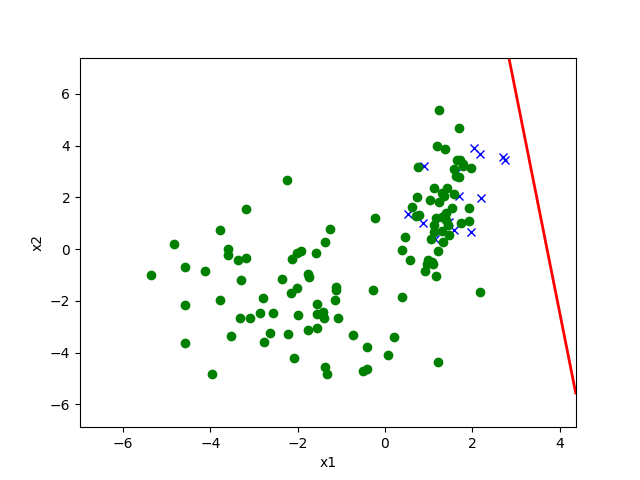
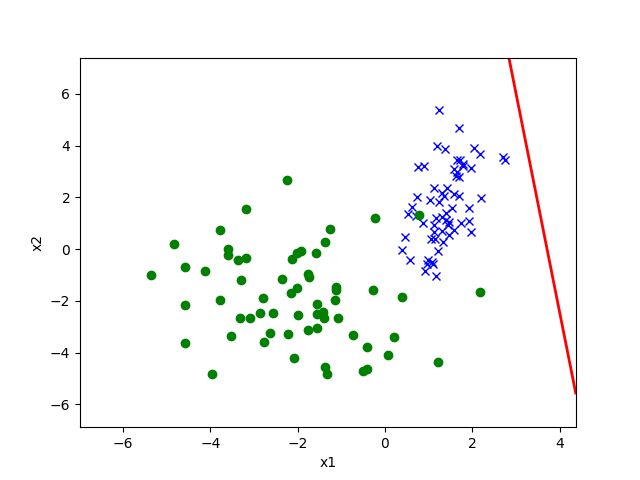
study: [GSMSEPLC-27] Taking Lecture CS229 : finish implementing "p02cde_posonly.py" ---   - finish implementing "e" in "p02cde_posonly.py".   - finish implementing "p02cde_posonly.py".   - add gitignore.

Changed region(s): [[0.625, 0.2188, 0.75, 0.5938], [0.625, 0.3438, 0.6562, 0.375]]

diff --git a/Lectures/cs229/2018/src/p02cde_posonly.py b/Lectures/cs229/2018/src/p02cde_posonly.py
@@ -26,24 +26,41 @@ def main(train_path, valid_path, test_path, pred_path):
     pred_path_e = pred_path.replace(WILDCARD, 'e')
 
     # *** START CODE HERE ***
-    model = LogisticRegression()
-
     # Part (c): Train and test on true labels
     # Make sure to save outputs to pred_path_c
+    model_t = LogisticRegression()
     x_train, t_train = util.load_dataset(train_path, label_col='t', add_intercept=True)
     x_test, t_test = util.load_dataset(test_path, label_col='t', add_intercept=True)
 
-    t_hat = model.fit(x_train, t_train)
-    util.plot(x_test, t_test, model.theta.squeeze(axis=0), '{}.png'.format(pred_path_c[:-4]))
+    model_t.fit(x_train, t_train)
+    t_hat = model_t.predict(x_train)
+
+    util.plot(x_test, t_test, model_t.theta.squeeze(axis=0), '{}.png'.format(pred_path_c[:-4]))
 
     # Part (d): Train on y-labels and test on true labels
     # Make sure to save outputs to pred_path_d
+    model_y = LogisticRegression()
     _, y_train = util.load_dataset(train_path, label_col='y', add_intercept=True)
-    _, y_test = util.load_dataset(test_path, label_col='y', add_intercept=True)
 
-    y_hat = model.fit(x_train, y_train)
-    util.plot(x_test, y_test, model.theta.squeeze(axis=0), '{}.png'.format(pred_path_d[:-4]))
+    model_y.fit(x_train, y_train)
+    y_hat = model_y.predict(x_train)
+
+    util.plot(x_test, t_test, model_y.theta.squeeze(axis=0), '{}.png'.format(pred_path_d[:-4]))
 
     # Part (e): Apply correction factor using validation set and test on true labels
     # Plot and use np.savetxt to save outputs to pred_path_e
+    x_val, t_val = util.load_dataset(valid_path, label_col='t', add_intercept=True)
+    _, y_val = util.load_dataset(valid_path, label_col='y', add_intercept=True)
+
+    y_val_true_idx = np.where(y_val == 1)[0]
+    t_val_true = t_val[y_val_true_idx]
+    x_val_true = x_val[y_val_true_idx]
+    alpha = np.average(model_y.predict(x_val_true))
+    
+    # making new decistion boundary with theta, alpha and threshold given by problem.
+    # since theta[0] is for intercept (bias), "np.log((2/alpha) - 1)" is added to theta[0].
+    # since "theta_new = model_y.theta AND theta_new[0] + np.log((2/alpha) - 1)", corr should be as below.
+    corr = (1 + np.log(2 / alpha - 1) / model_y.theta.squeeze(axis=0)[0])
+
+    util.plot(x_test, t_test, model_y.theta.squeeze(axis=0), '{}.png'.format(pred_path_e[:-4]), corr)
     # *** END CODER HERE
